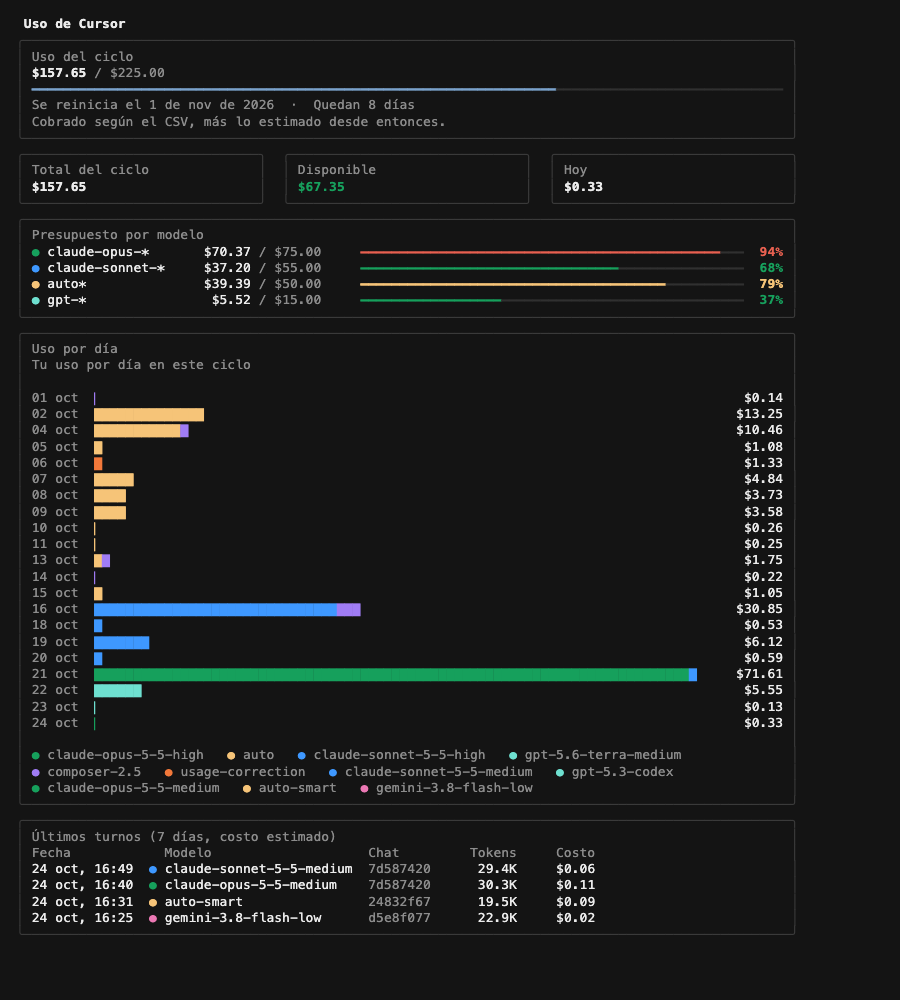
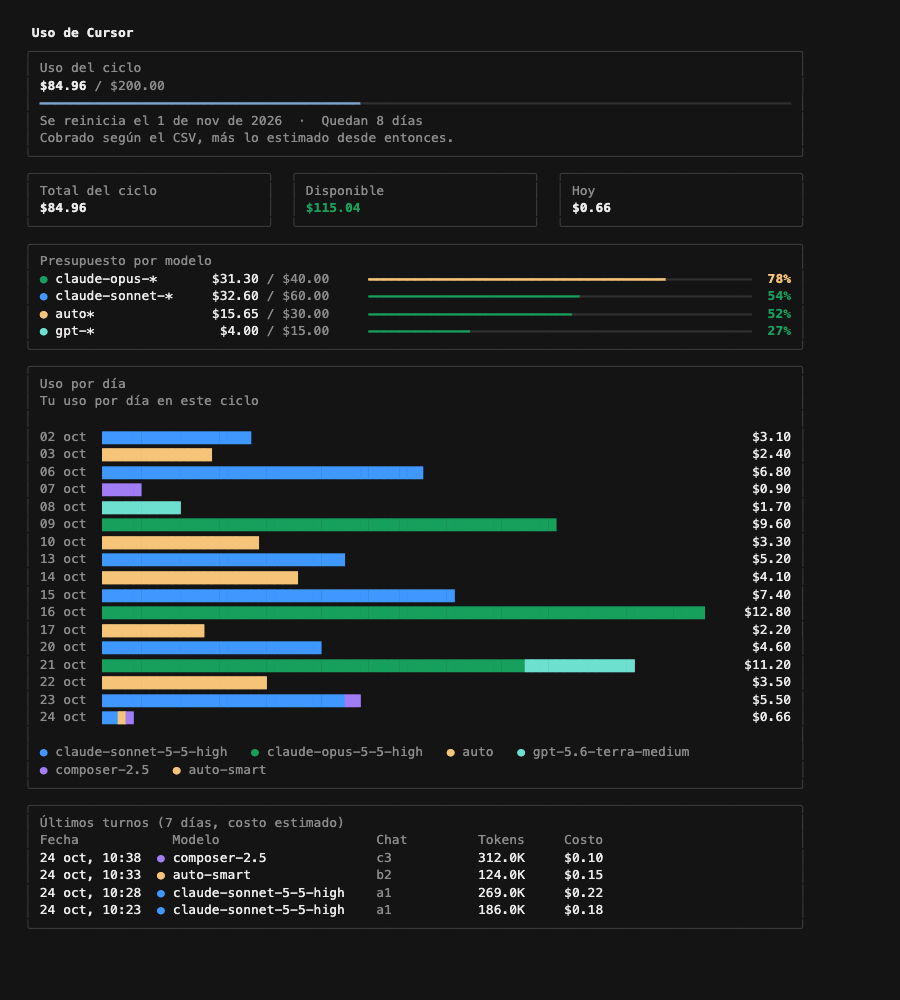
feat: notificación de prueba al instalar y datos de ejemplo en la documentación

diff --git a/docs/demo.py b/docs/demo.py
@@ -1,0 +1,73 @@
+"""Render `cbudget report` with made-up data, as the HTML page behind docs/report.png.
+  python3 docs/demo.py docs/report.html
+Builds a throwaway budget folder (seeded cycle, model budgets, a few turns today) so the capture shows nobody's real
+spend. Screenshot the page at 900 px wide to refresh docs/report.png."""
+from __future__ import annotations
+
+import html
+import json
+import re
+import sys
+import tempfile
+from pathlib import Path
+
+sys.path.insert(0, str(Path(__file__).resolve().parent.parent))
+from cbudget import budget, render  # noqa: E402
+
+NOW = 1792850000.0  # 2026-10-24 10:53 -03, the tests' clock
+# (day of October, model, usd): an invented cycle, about $84 before today
+DAYS = [(2, "claude-sonnet-5-5-high", 3.10), (3, "auto", 2.40), (6, "claude-sonnet-5-5-high", 6.80),
+        (7, "composer-2.5", 0.90), (8, "gpt-5.6-terra-medium", 1.70), (9, "claude-opus-5-5-high", 9.60),
+        (10, "auto", 3.30), (13, "claude-sonnet-5-5-high", 5.20), (14, "auto", 4.10),
+        (15, "claude-sonnet-5-5-high", 7.40), (16, "claude-opus-5-5-high", 12.80), (17, "auto", 2.20),
+        (20, "claude-sonnet-5-5-high", 4.60), (21, "gpt-5.6-terra-medium", 2.30), (21, "claude-opus-5-5-high", 8.90),
+        (22, "auto", 3.50), (23, "claude-sonnet-5-5-high", 5.10), (23, "composer-2.5", 0.40)]
+TURNS = [("claude-sonnet-5-5-high", "a1", 180_000, 150_000, 6_000), ("claude-sonnet-5-5-high", "a1", 260_000, 240_000, 9_000),
+         ("auto-smart", "b2", 120_000, 90_000, 4_000), ("composer-2.5", "c3", 300_000, 250_000, 12_000)]
+ANSI = re.compile(r"\033\[([\d;]*)m")
+
+
+def build(home: Path) -> None:
+    (home / "config.json").write_text(json.dumps({"cycle_limit": 200, "model_budgets": {
+        "claude-opus-*": 40, "claude-sonnet-*": 60, "auto*": 30, "gpt-*": 15}}), encoding="utf-8")
+    rows = [{"Model": m, "Cost": f"{usd:.2f}", "Date": f"2026-10-{d:02d}T15:00:00.000Z"} for d, m, usd in DAYS]
+    budget.seed(rows, home=home, now=lambda: NOW - 3600)
+    for i, (model, conv, inp, cached, out) in enumerate(TURNS):
+        budget.on_stop({"hook_event_name": "stop", "model": model, "conversation_id": conv, "input_tokens": inp,
+                        "cache_read_tokens": cached, "output_tokens": out}, home=home, now=lambda: NOW - 1800 + i * 300)
+
+
+def to_html(text: str) -> str:
+    out, open_span = [], False
+    for part in re.split(r"(\033\[[\d;]*m)", text):
+        match = ANSI.fullmatch(part)
+        if not match:
+            out.append(html.escape(part))
+            continue
+        if open_span:
+            out.append("</span>")
+            open_span = False
+        codes = match.group(1).split(";")
+        if codes in (["0"], [""]):
+            continue
+        style = "font-weight:700;" if "1" in codes else ""
+        if "38" in codes:
+            i = codes.index("38")
+            style += "color:rgb({},{},{});".format(*codes[i + 2:i + 5])
+        out.append(f'<span style="{style}">')
+        open_span = True
+    return ("<!doctype html><meta charset=\"utf-8\"><title>cbudget report</title><body style=\"margin:0;"
+            "background:#141414\"><pre style=\"margin:0;padding:24px;color:#d8d8d8;font:13px/1.35 Menlo,monospace\">"
+            + "".join(out) + "</pre></body>")
+
+
+def main(dest: str) -> None:
+    with tempfile.TemporaryDirectory() as tmp:
+        home = Path(tmp)
+        build(home)
+        report = render.report(7, home=home, color=True, now=NOW, columns=100)
+    Path(dest).write_text(to_html(report), encoding="utf-8")
+
+
+if __name__ == "__main__":
+    main(sys.argv[1] if len(sys.argv) > 1 else "report.html")

diff --git a/tests/test_budget.py b/tests/test_budget.py
@@ -15,11 +15,12 @@ def stop(model="claude-sonnet-5-5-high", conv="c1", **tokens):
 class TestCost(unittest.TestCase):
     table = budget.prices(Path("/nonexistent"))
 
-    def test_reproduces_the_oct_21_opus_bill_within_five_percent(self):
-        # Cursor CSV, Oct 21: 29 claude-opus-5-5-high events billed $70.26
-        event = {"model": "claude-opus-5-5-high", "input_tokens": 91_471_000, "cache_read_tokens": 87_470_000,
-                 "cache_write_tokens": 4_000_000, "output_tokens": 611_000}
-        self.assertAlmostEqual(budget.cost(event, self.table), 70.26, delta=70.26 * 0.05)
+    def test_opus_turn_follows_the_formula(self):
+        # made-up turn: 5M uncached x $4 + 5M cache write x $4 x 1.25 + 90M cache read x $0.20 + 0.5M output x $20
+        # + the $0.25 surcharge on all 100.5M tokens = 20 + 25 + 18 + 10 + 25.125
+        event = {"model": "claude-opus-5-5-high", "input_tokens": 100_000_000, "cache_read_tokens": 90_000_000,
+                 "cache_write_tokens": 5_000_000, "output_tokens": 500_000}
+        self.assertAlmostEqual(budget.cost(event, self.table), 98.125, places=3)
 
     def test_cached_input_is_not_billed_twice(self):
         event = {"model": "gpt-5.6-terra-medium", "input_tokens": 1_000_000, "cache_read_tokens": 1_000_000}
@@ -89,11 +90,11 @@ class TestCycle(Home):
         self.assertAlmostEqual(total, 100.35, places=2)
 
     def test_amount_seed_sets_the_cycle_without_a_csv(self):
-        budget.seed_amount(157.21, home=self.home, now=lambda: NOON - 60, cycle_day=1)
+        budget.seed_amount(84.30, home=self.home, now=lambda: NOON - 60, cycle_day=1)
         self.run_stop(stop(input_tokens=1_000_000, cache_read_tokens=1_000_000))
         total, seeded = budget.cycle_total(budget.read_ledger(self.home), self.home, NOON, 1)
         self.assertTrue(seeded)
-        self.assertAlmostEqual(total, 157.56, places=2)
+        self.assertAlmostEqual(total, 84.65, places=2)
         self.assertIn("Lo que mostraba Cursor", render.report(7, home=self.home, now=NOON))
 
     def test_warns_when_the_cycle_crosses_a_share_of_the_limit(self):
@@ -313,6 +314,18 @@ class TestCli(unittest.TestCase):
             self.assertTrue(cli.install_hook("/usr/bin/python3 /app/cbudget.py hook", path))
             hooks = json.loads(path.read_text())["hooks"]
             self.assertEqual([h["command"] for h in hooks["stop"]], ["/usr/bin/python3 /app/cbudget.py hook"])
+
+    def test_notify_test_sends_one_notification_and_says_how_to_allow_them(self):
+        import contextlib, io
+        sent, out = [], io.StringIO()
+        original, cli.notify = cli.notify, sent.append
+        try:
+            with contextlib.redirect_stdout(out):
+                self.assertEqual(cli.main(["notify-test"]), 0)
+        finally:
+            cli.notify = original
+        self.assertEqual(len(sent), 1)
+        self.assertIn("Script Editor", out.getvalue())
 
     def test_alias_is_added_once_and_replaced_when_the_folder_moves(self):
         with tempfile.TemporaryDirectory() as tmp:

diff --git a/cbudget/cli.py b/cbudget/cli.py
@@ -89,6 +89,10 @@ def install_hook(command: str, path: Path = HOOKS) -> bool:
     return changed
 
 
+NOTIFY_HINT = ("Mandé una notificación de prueba. Si no la viste, los avisos no te van a llegar: abrí Configuración "
+               "del Sistema → Notificaciones → Script Editor, activá «Permitir notificaciones» y probá de nuevo con "
+               "`cbudget notify-test`.")
+
 ALIAS_MARK = "# cursor-budget"
 
 
@@ -155,7 +159,7 @@ def main(argv: Optional[Sequence[str]] = None) -> int:
     cal.add_argument("csv", type=Path)
     sed = sub.add_parser("seed", help="this cycle's spend so far: from Cursor's usage CSV, or the amount its page shows")
     sed.add_argument("csv", type=Path, nargs="?")
-    sed.add_argument("--amount", help="what Cursor's Usage page shows, e.g. 157.21")
+    sed.add_argument("--amount", help="what Cursor's Usage page shows, e.g. 84.30")
     lim = sub.add_parser("limits", help="show, check and change the limits")
     lim.add_argument("--color", choices=("auto", "always", "never"), default="auto")
     lim.add_argument("--by", default=None, help="who changes them, for changes.jsonl (default: terminal or agente)")
@@ -173,6 +177,7 @@ def main(argv: Optional[Sequence[str]] = None) -> int:
         lsub.add_parser(name, help=f"{name} a model pattern").add_argument("pattern")
     sub.add_parser("install-hook", help="add cbudget to ~/.cursor/hooks.json")
     sub.add_parser("alias", help="add `alias cbudget=...` to ~/.zshrc (or ~/.bashrc)")
+    sub.add_parser("notify-test", help="send a test notification, to check that macOS shows them")
     args = parser.parse_args(argv)
 
     if args.cmd == "hook":
@@ -209,6 +214,10 @@ def main(argv: Optional[Sequence[str]] = None) -> int:
         return 0
     if args.cmd == "limits":
         return limits_command(args)
+    if args.cmd == "notify-test":
+        notify("Prueba: así se ven los avisos de gasto de Cursor.")
+        print(NOTIFY_HINT)
+        return 0
     entry = Path(__file__).resolve().parent.parent / "cbudget.py"
     if args.cmd == "alias":
         rc = rc_file()

diff --git a/README.md b/README.md
@@ -27,7 +27,8 @@ Con el repo ya clonado:
 Copia el programa a `~/.cursor/budget/app` (su propia carpeta, junto al registro y la configuración), apunta los
 hooks de Cursor a esa copia y agrega `alias cbudget=...` a `~/.zshrc` (o `~/.bashrc`). Así los hooks siguen andando
 aunque este repo se mueva o cambie de rama. Volver a correrlo actualiza la copia sin tocar `config.json`,
-`ledger.jsonl` ni `baseline.json`. El hook y el alias usan el `python3` con el que se instaló, con ruta absoluta,
+`ledger.jsonl` ni `baseline.json`. Al final manda una notificación de prueba: si no aparece, macOS las tiene
+bloqueadas para Script Editor y el instalador dice cómo habilitarlas (`CURSOR_BUDGET_NO_NOTIFY=1` la saltea). El hook y el alias usan el `python3` con el que se instaló, con ruta absoluta,
 porque Cursor no siempre hereda el PATH de la terminal: si actualizás Python a otra versión menor, volvé a instalar.
 
 ## Comandos
@@ -44,12 +45,14 @@ cbudget alias                # agrega o actualiza el alias en el rc de la shell
 cbudget report --days 7      # ciclo, presupuestos y gasto por día, modelo y chat (en color; --color never o NO_COLOR para texto plano)
 cbudget allow --minutes 30   # levanta los bloqueos un rato
 cbudget calibrate usage.csv  # cobrado contra estimado por modelo, desde el CSV del dashboard
-cbudget seed usage.csv       # toma lo cobrado este ciclo como base del total del ciclo (o --amount 157.21)
+cbudget seed usage.csv       # toma lo cobrado este ciclo como base del total del ciclo (o --amount 84.30)
+cbudget notify-test          # manda una notificación de prueba y explica cómo habilitarlas
 ```
 
 ![cbudget report](docs/report.png)
 
-Captura de la salida real de `cbudget report` en color, pasada a HTML (2026-10-24).
+Maqueta: la salida real de `cbudget report` en color, con datos inventados. La genera `python3 docs/demo.py
+report.html` (un ciclo de ejemplo, sin el gasto de nadie); la captura es esa página a 900 px de ancho.
 
 ## Límites por defecto
 
@@ -78,16 +81,16 @@ Para cambiarlos, escribí solo las claves que quieras en `~/.cursor/budget/confi
   **En el IDE también bloquea** (Cursor 2026.10.22, probado el 2026-10-24): muestra "Submission blocked by hook" con el
   `user_message` y el prompt no llega al modelo.
 - La fórmula (precio de API, más 1.25x en la escritura de caché, más $0.25 por millón en modelos de terceros)
-  reproduce la factura del 21 de octubre ($70.26 de Opus) con un error de ±5%. Hay un test que lo controla.
-  Un turno de Gemini Flash dio $0.017 estimado, contra $0.02 en el CSV.
+  reproduce una factura real de Opus con un error de ±5%. El test `test_opus_turn_follows_the_formula` fija la
+  fórmula con números de ejemplo.
 
 Cada bloqueo queda anotado en `~/.cursor/budget/blocks.jsonl`. Sirve de prueba de que el hook frenó, aunque
 el IDE no muestre el mensaje.
 
 ## Gasto del ciclo
 
-Sin CSV: mirá en cursor.com/dashboard → Usage el monto de "Your monthly usage" (el primero de "$157.21 / $225") y
-corré `cbudget seed --amount 157.21`. Es la vía para quien no exporta archivos; no trae el detalle por modelo ni por
+Sin CSV: mirá en cursor.com/dashboard → Usage el monto de "Your monthly usage" (el primero de "$84.30 / $200", en el ejemplo) y
+corré `cbudget seed --amount 84.30`. Es la vía para quien no exporta archivos; no trae el detalle por modelo ni por
 día, así que los presupuestos por modelo cuentan desde ese momento. Si instalás el día que arranca el ciclo, no
 hace falta ningún seed: el registro ve el ciclo entero.
 
@@ -114,8 +117,8 @@ del CSV que Auto derivó (`grok-4.7-high (Auto Balanced)`) cuentan para `auto*`,
 ## Calibrar
 
 Exportá el CSV en el dashboard de Cursor (Usage → Export) y corré `cbudget calibrate <csv>`. Marca con
-`<- ajustar` los modelos con más de 10% de error y los que no coinciden con ningún precio. Con el CSV de octubre de
-2026 dio $161.92 estimado contra $156.34 cobrado (+4%).
+`<- ajustar` los modelos con más de 10% de error y los que no coinciden con ningún precio. En la calibración
+original el total estimado quedó 4% arriba de lo cobrado; cada modelo, entre −7% y +6%.
 
 ## Límites conocidos
 

diff --git a/SKILL.md b/SKILL.md
@@ -30,7 +30,7 @@ estimate since; say so when it matters.
 
 If the report says it only counts since installation (nothing seeded this cycle), the total is short by whatever was
 spent before. Ask the user for the number on Cursor's Usage page (cursor.com/dashboard, "Your monthly usage", the
-first amount of "$157.21 / $225") and run `cb seed --amount <that number>`. That is the no-CSV path, meant for
+first amount of "$84.30 / $200") and run `cb seed --amount <that number>`. That is the no-CSV path, meant for
 people who do not export files. A CSV (`cb seed <csv>`) adds the split per model and per day; use it when they have one.
 
 ## Change
